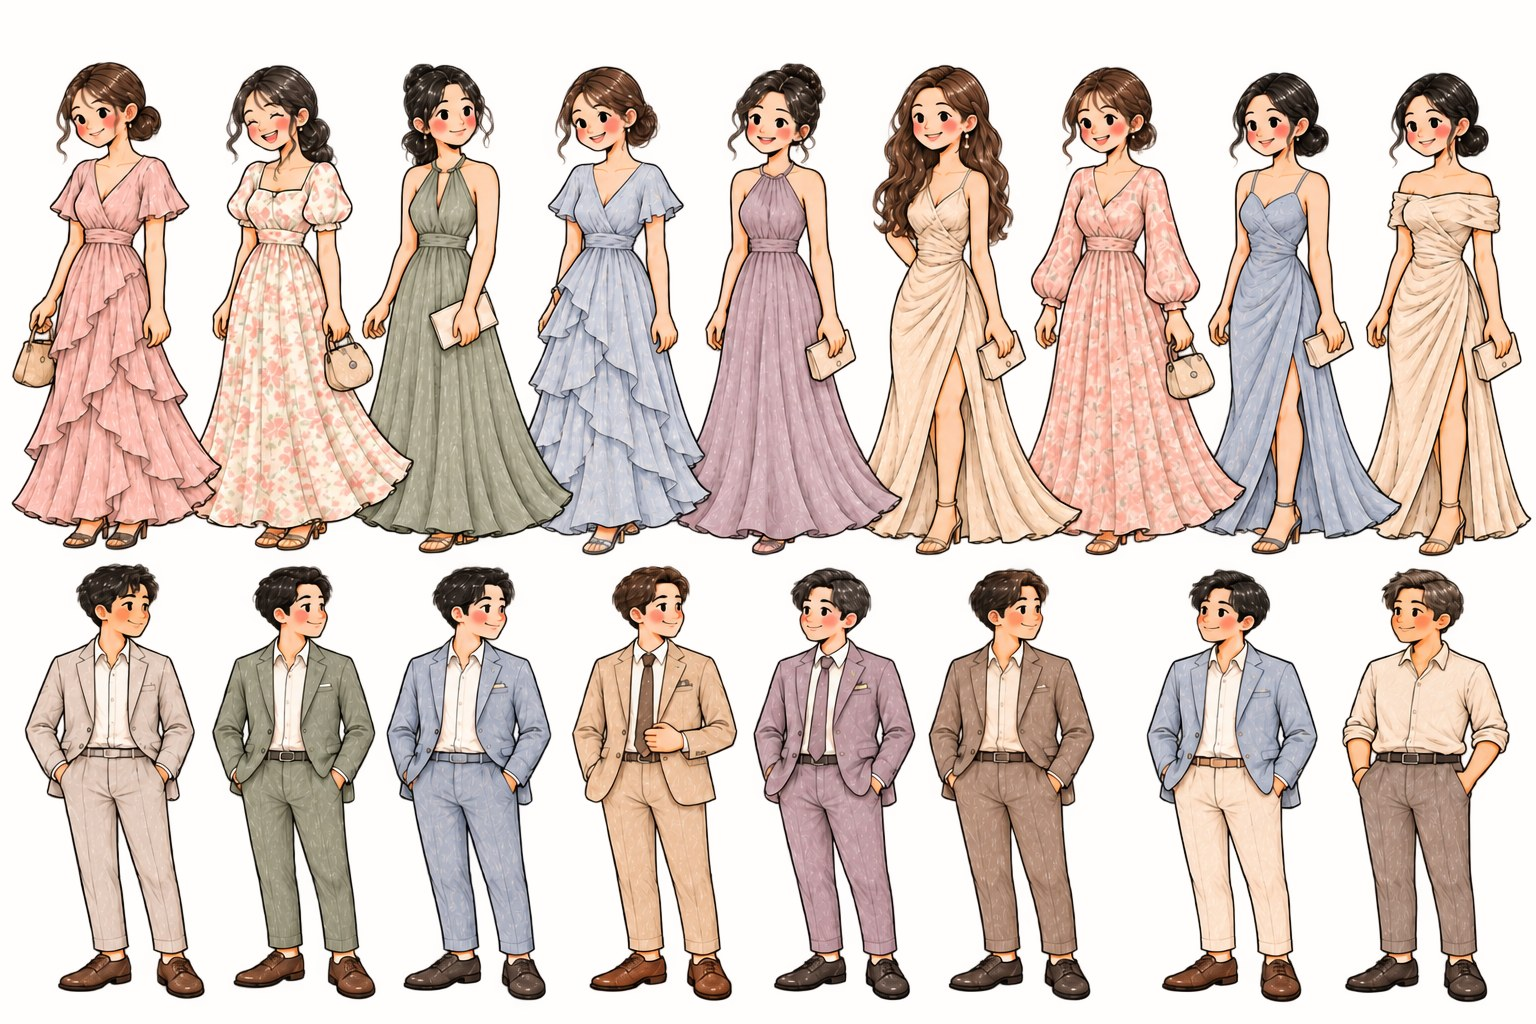
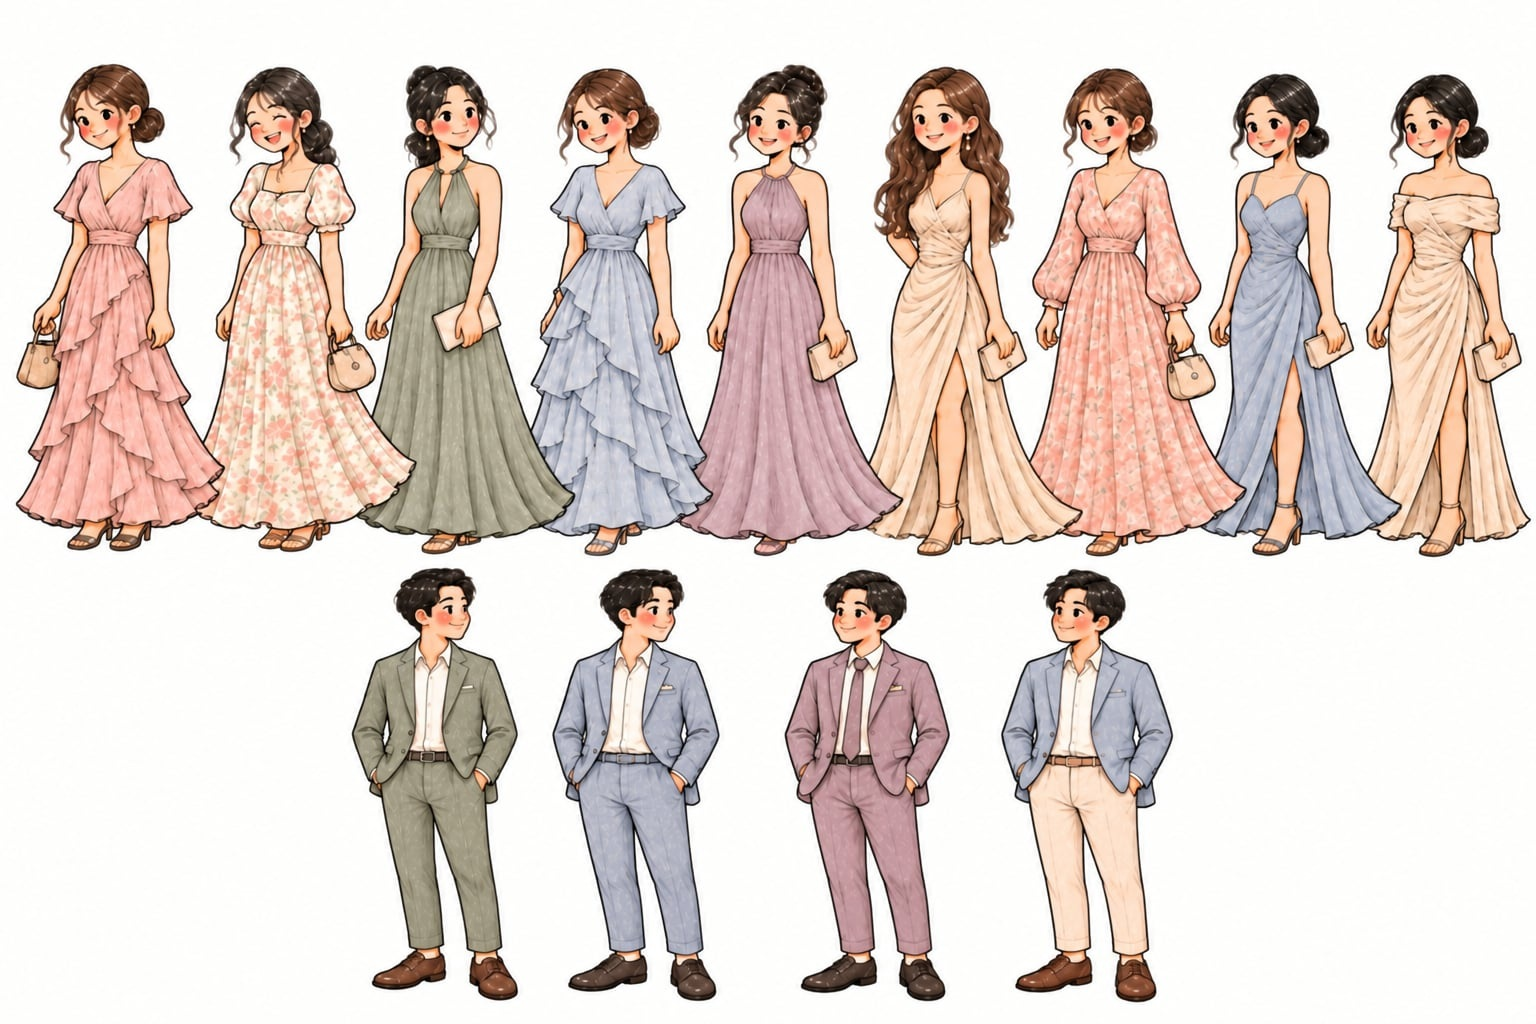
timeline fix, venue title change

diff --git a/css/styles.css b/css/styles.css
@@ -317,7 +317,6 @@ button {
 /* ——— Timeline ——— */
 .timeline {
   text-align: center;
-  padding: clamp(48px, 7vw, 96px) var(--pad);
   max-width: var(--max);
   margin: 0 auto;
 }
@@ -326,6 +325,14 @@ button {
   position: relative;
   max-width: 1100px;
   margin: 24px auto 0;
+}
+
+@media (max-width: 767px) {
+  .timeline-wrap {
+    width: 111vw;
+    max-width: none;
+    margin-left: calc(43% - 50vw);
+  }
 }
 
 .timeline-art {

diff --git a/index.html b/index.html
@@ -115,7 +115,7 @@ Jeinel &amp; Lyka
           />
         </div>
         <div class="venue-copy reveal delay-1">
-          <h2 class="section-title">Venue</h2>
+          <h2 class="section-title">@Craft 1945</h2>
           <p class="venue-text">
             Our ceremony and dinner will take place at Craft 1945, a beautiful
             heritage house in Baguio. We’ll say “I do” in the garden, surrounded
